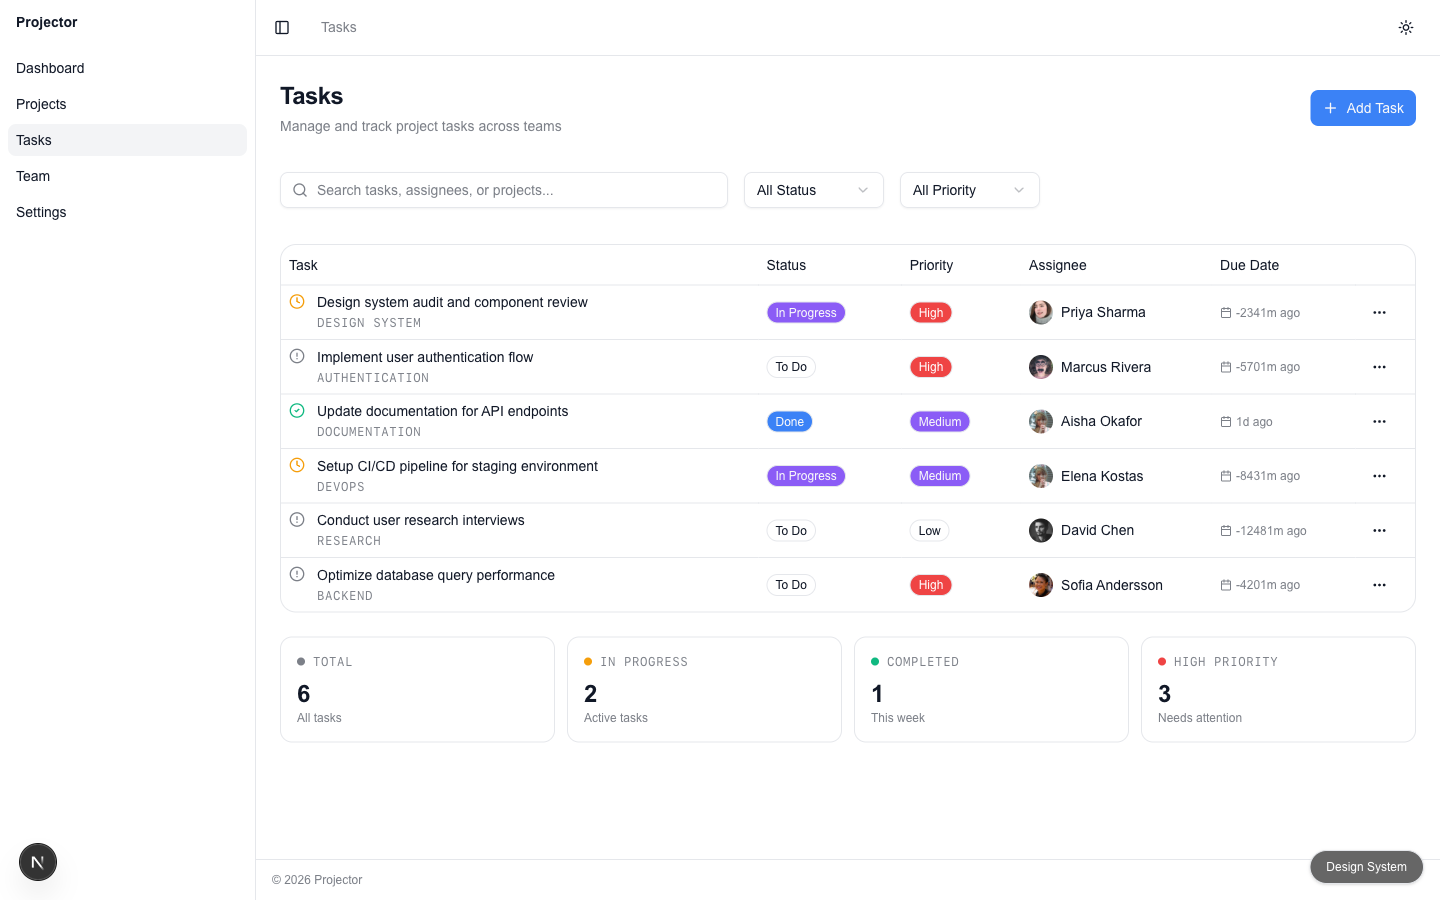
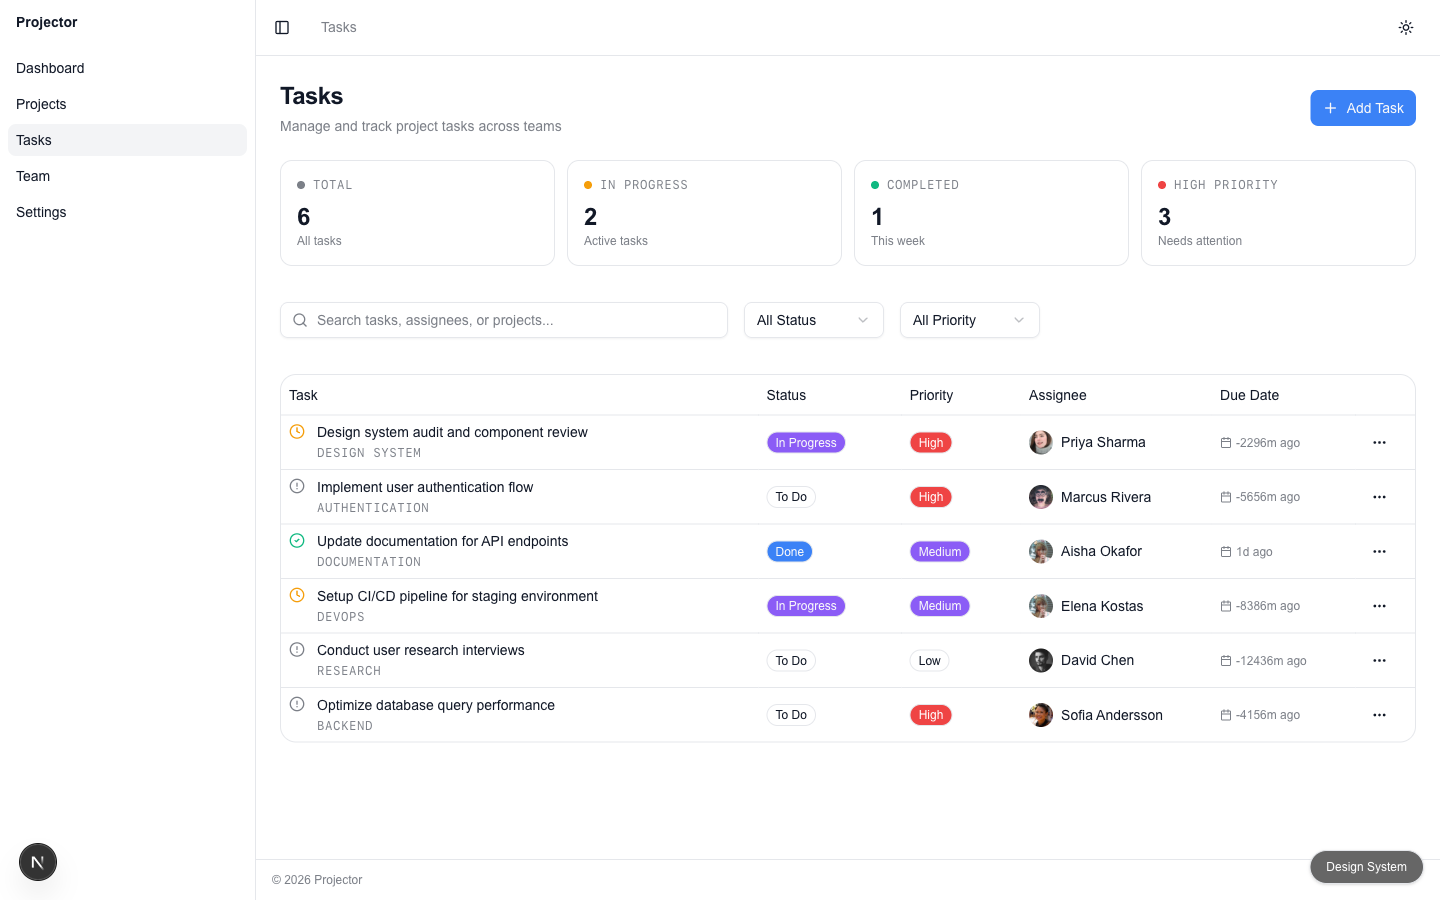
v0.6.93 — Tailwind v4 layer leak + stats-position rule
Two UX bugs from v0.6.92 screenshots:

1. Inactive shadcn tabs showed unexpected outlined rectangles. Root
   cause: scaffold globals.css had `* { border-color: var(--border) }`
   at top level, overriding `.border-transparent` in cascade-layer
   order. Now wrapped in `@layer base`.

2. Tasks page placed stats strip below the table. Added rule in
   DESIGN_QUALITY_APP: metrics MUST go above detail views.

Also moved Tasks stats in projector fixture to validate the layout.

diff --git a/packages/cli/src/agents/design-constraints.ts b/packages/cli/src/agents/design-constraints.ts
@@ -427,6 +427,13 @@ STAT METRICS: vary presentation — not always 4 identical cards. Options:
 - Single hero metric + supporting stats as text
 NEVER: 4 identical cards with same layout as the default.
 
+STAT METRICS POSITION (CRITICAL — fixes "metrics at bottom" bug):
+When a page has BOTH a summary metrics strip AND a detail view (table/list/grid):
+- Metrics ALWAYS go ABOVE the detail view, not below it.
+- Reading order: Page header → summary metrics → filters/search → detail view.
+- Rationale: summary is the scanning layer (quick state check), detail is the drill-in layer. Burying summary below the table forces the user to scroll past all data before seeing totals — an anti-pattern that makes a dashboard feel "built wrong".
+- Exception: on pure detail pages (single-record view, settings form), no summary strip is needed — skip the metrics entirely rather than placing them below.
+
 DATA DISPLAY: match format to data type:
 - Structured data → Table with TableHeader/TableBody, hover:bg-muted/50, actions via DropdownMenu
 - Visual items (projects, products) → Card grid, vary card sizes, include progress/avatars/badges

diff --git a/packages/cli/src/utils/tailwind-version.ts b/packages/cli/src/utils/tailwind-version.ts
@@ -202,14 +202,20 @@ export function generateV4GlobalsCss(config: DesignSystemConfig): string {
   --chart-5: ${dark.info || dark.primary};
 }
 
-* {
-  border-color: var(--border);
-}
+@layer base {
+  *,
+  ::after,
+  ::before,
+  ::backdrop,
+  ::file-selector-button {
+    border-color: var(--border);
+  }
 
-body {
-  background-color: var(--background);
-  color: var(--foreground);
-  font-family: Arial, Helvetica, sans-serif;
+  body {
+    background-color: var(--background);
+    color: var(--foreground);
+    font-family: Arial, Helvetica, sans-serif;
+  }
 }
 `
 }

diff --git a/docs/CHANGELOG.md b/docs/CHANGELOG.md
@@ -2,6 +2,19 @@
 
 All notable changes to this project are documented in this file.
 
+## [0.6.93] — 2026-04-16
+
+### Fixed
+- **Tailwind v4 global border rule leaked onto every element.** Scaffolded `app/globals.css` had `* { border-color: var(--border); }` at the **top level** (outside any `@layer`). Tailwind v4 cascade layers put unlayered rules AFTER all layered utilities — so this rule overrode `.border-transparent` (and similar). Symptom: every shadcn `TabsTrigger` (which uses `border border-transparent` as layout-stability placeholder) showed a visible `--border` outline on inactive tabs. Fix: wrap the `*` + `body` block in `@layer base { ... }` in both `tailwind-version.ts` v4 generator and the existing Projector file.
+
+### Added
+- **Metrics-position rule in `DESIGN_QUALITY_APP`.** New section: when a page has BOTH a summary metrics strip AND a detail view (table/list/grid), metrics MUST go ABOVE the detail view. Stops the AI from placing Total/InProgress/Completed/HighPriority cards at the bottom of the Tasks page (observed in v0.6.92 generation) — an anti-pattern that forces users to scroll past all data before seeing the summary.
+
+### Rationale
+Two visible UX bugs spotted while reviewing the v0.6.92 Projector screenshots:
+1. Settings tabs rendered outlined rectangles for inactive tabs (user: "I've never seen shadcn tabs look like this"). Root cause: cascade-layer leak, fixed at scaffold level.
+2. Tasks page stats strip at the bottom, below the table (user: "I've never seen such cards placed at the bottom"). Root cause: no rule enforcing stats-above-detail ordering, added to app-type design quality block.
+
 ## [0.6.92] — 2026-04-16
 
 ### Added
